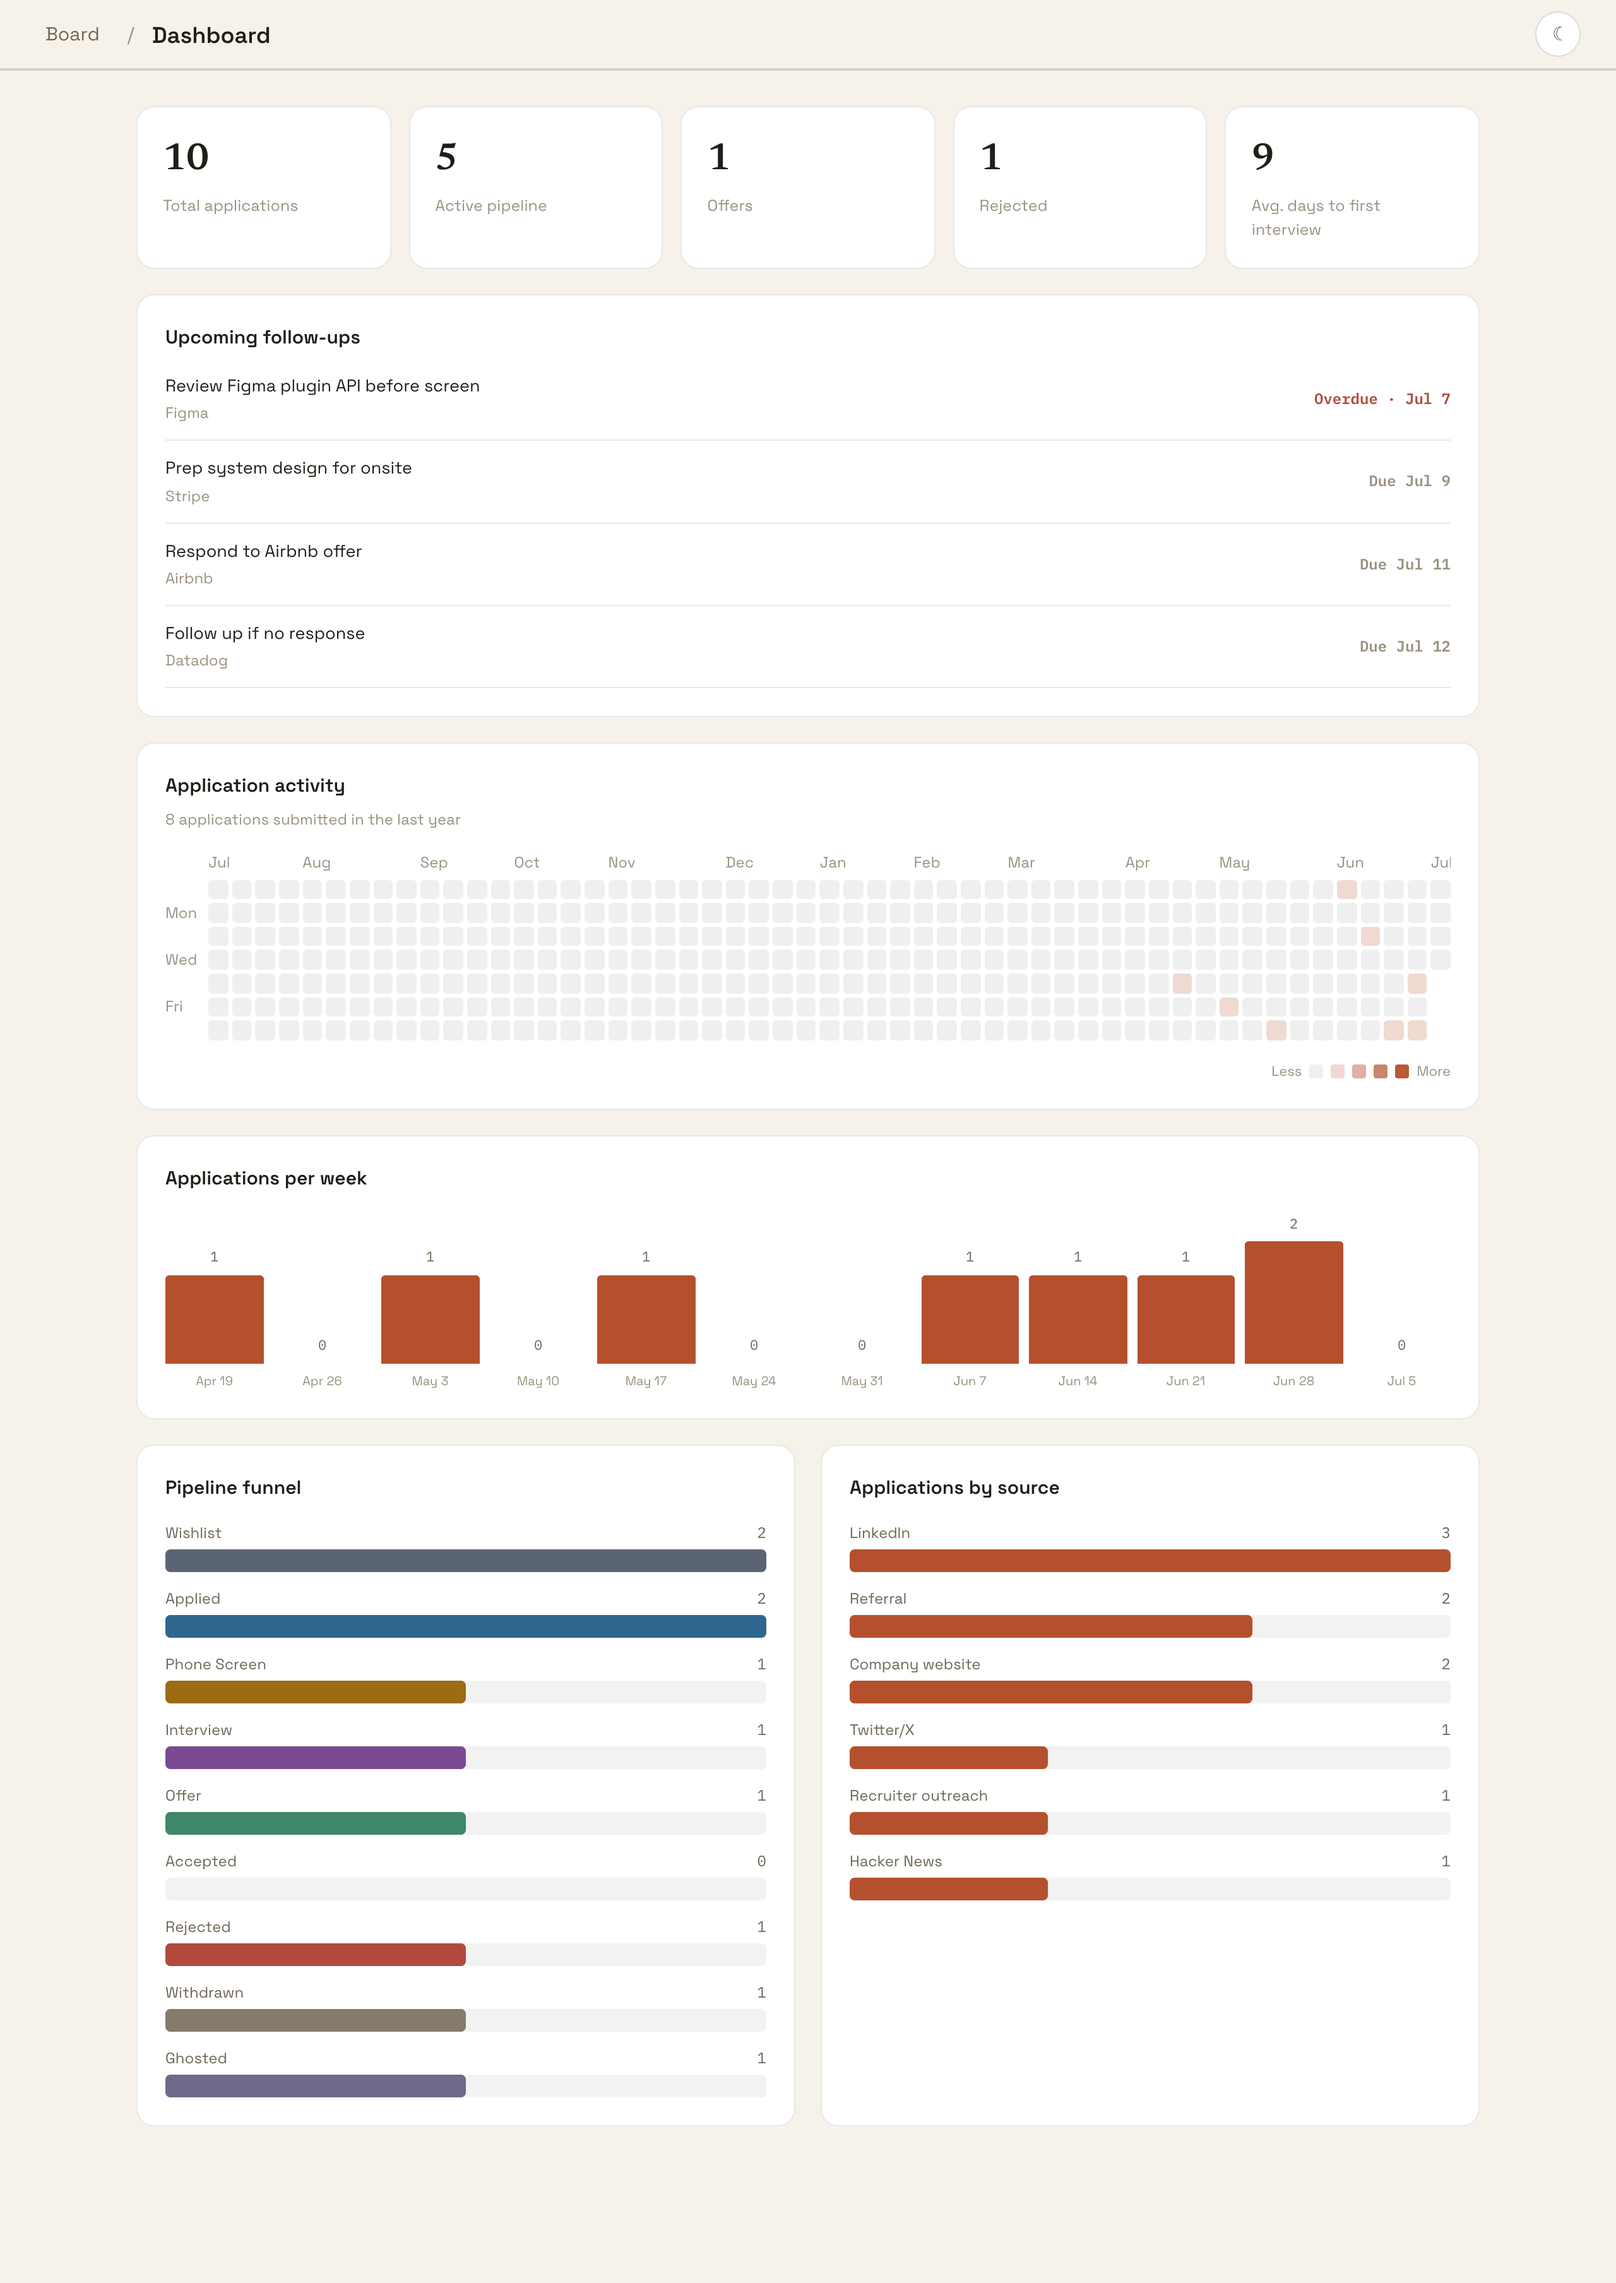
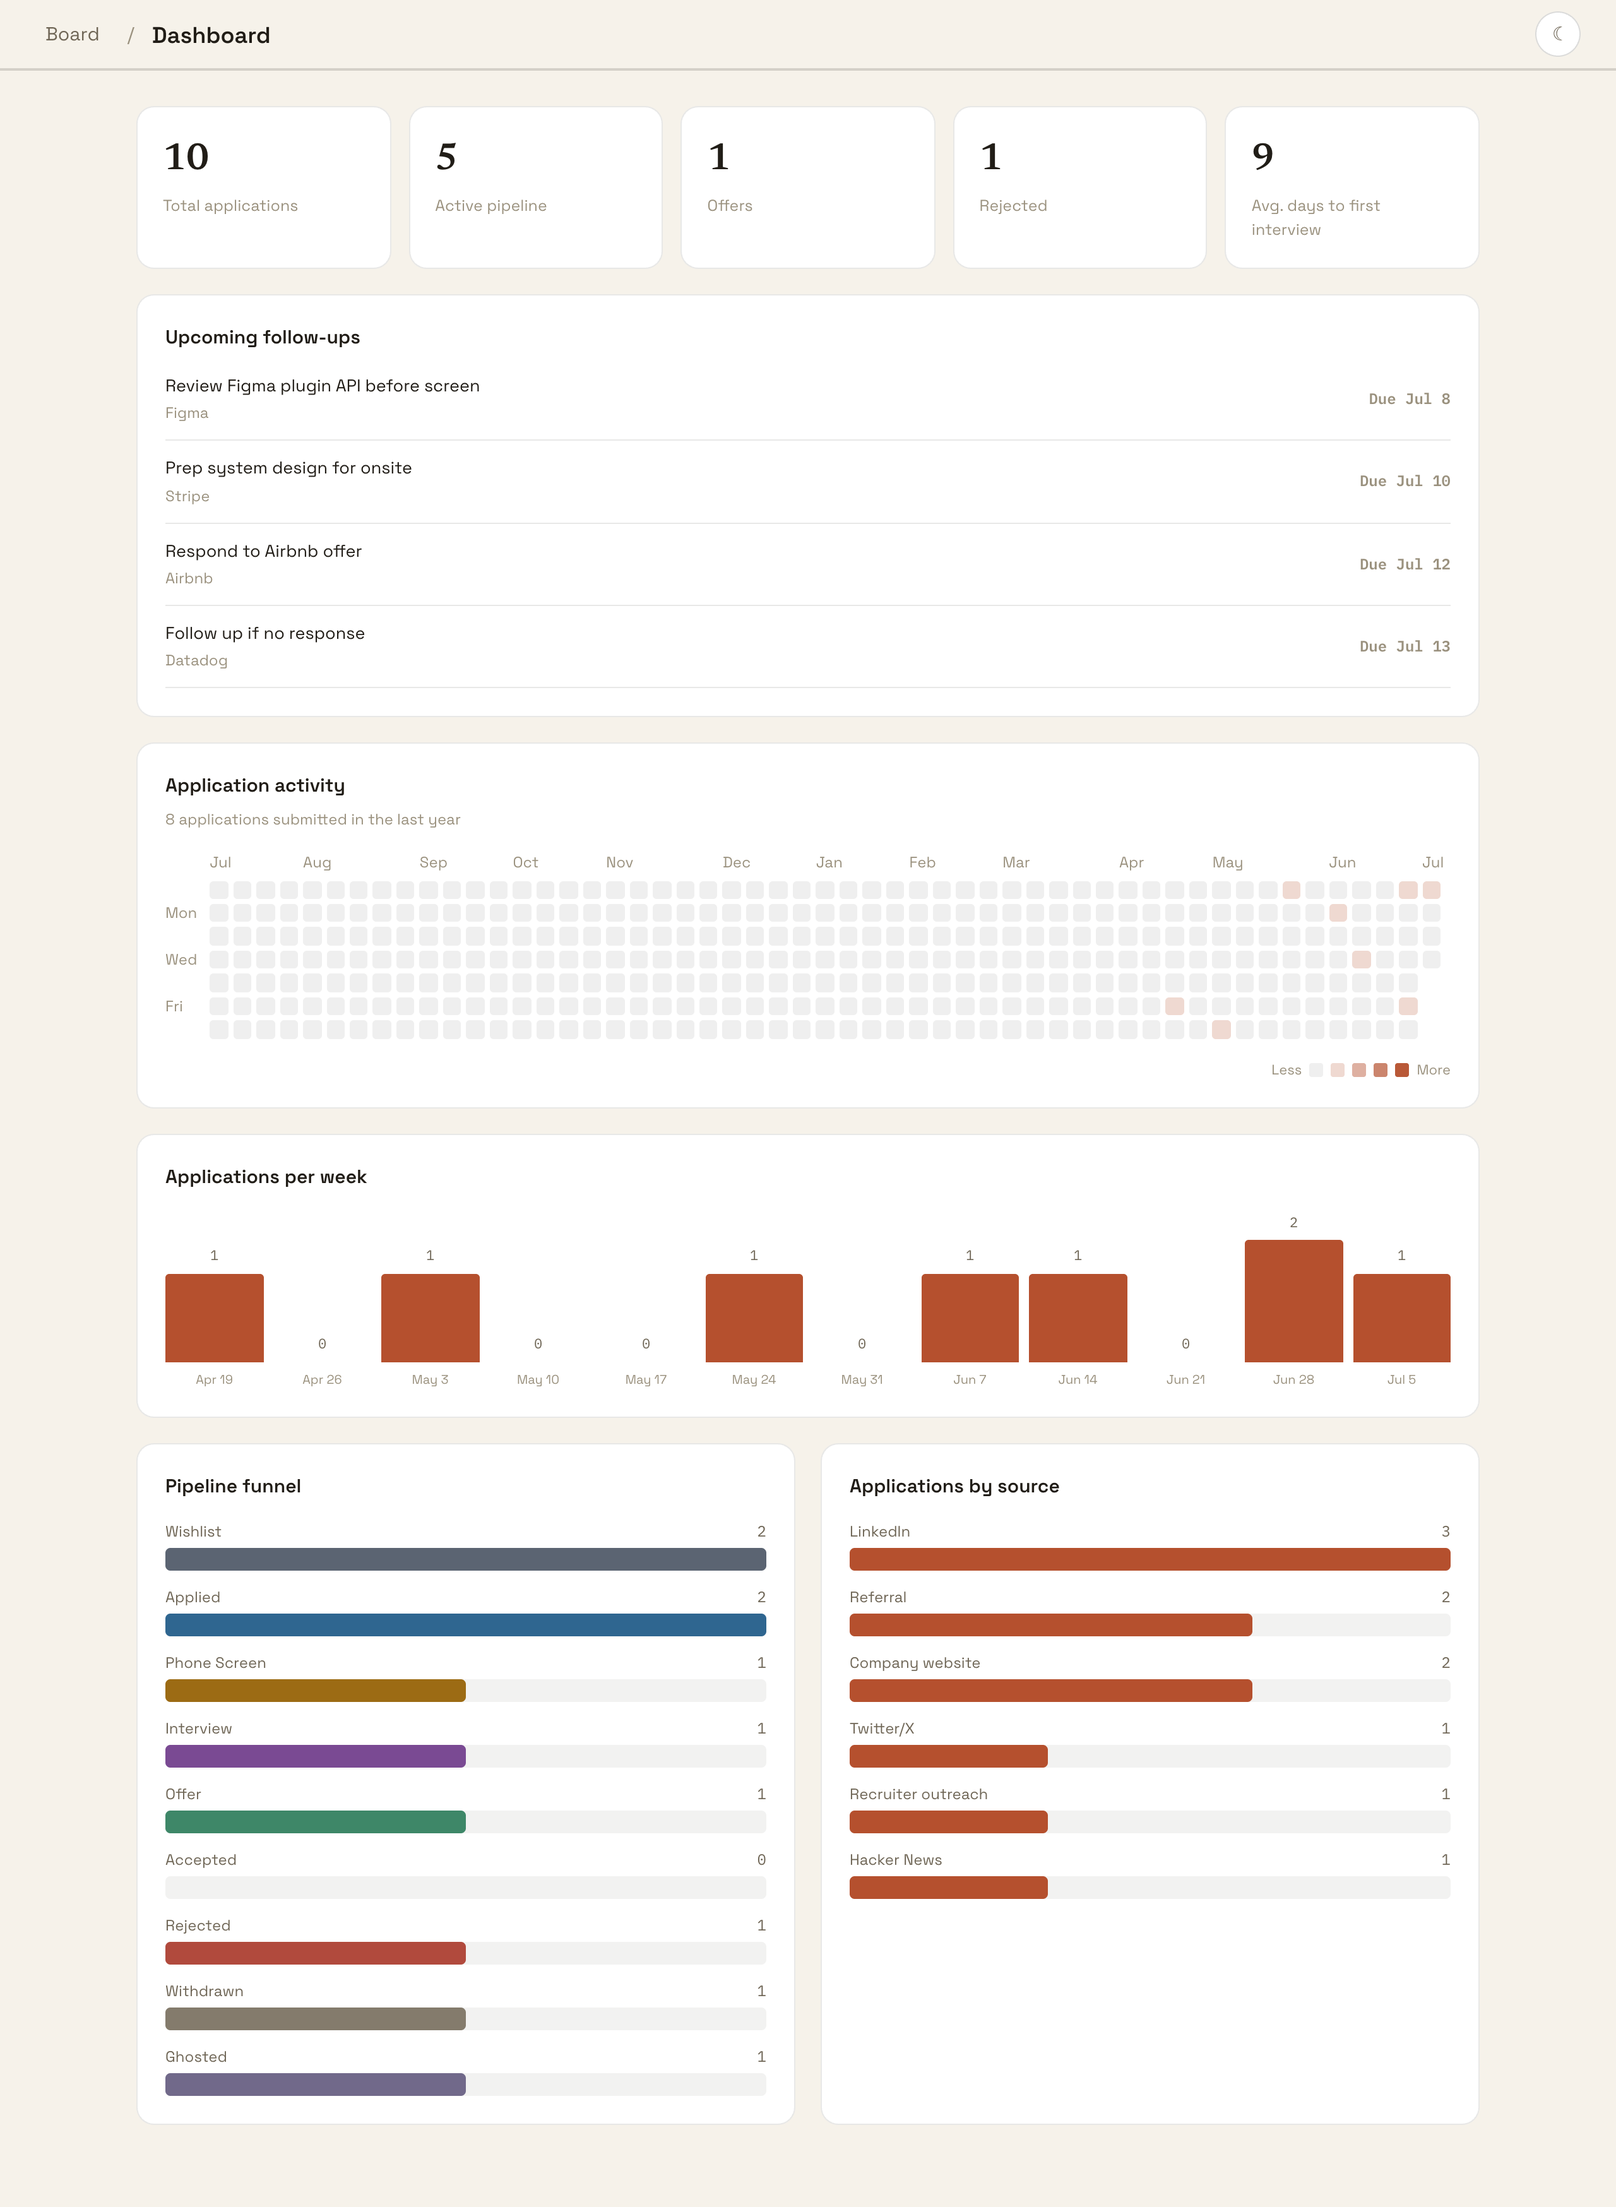
style(frontend): GitHub-proportioned activity heatmap squares
The heatmap grid still fills the panel edge to edge; a 4px gap
reproduces GitHub's gap-to-square ratio at full width, so the squares
come out slightly smaller, and grid padding stops the trailing month
label from being clipped. Refresh the dashboard screenshot.

diff --git a/frontend/src/styles/dashboard.css b/frontend/src/styles/dashboard.css
@@ -133,13 +133,16 @@
 
 /* Fluid grid: label column + 53 equal week columns filling the panel;
    cells stay square via aspect-ratio, so everything scales with width.
+   The 4px gap matches GitHub's gap-to-square ratio (~27%) at full width.
    min-width keeps small screens scrolling instead of crushing the cells. */
 .contrib-grid {
   display: grid;
   grid-template-columns: max-content repeat(53, minmax(0, 1fr));
   grid-template-rows: auto repeat(7, auto);
-  gap: 3px;
+  gap: 4px;
   min-width: 720px;
+  /* room for the last month label, which overflows its track */
+  padding-right: 8px;
 }
 
 .contrib-cell {
